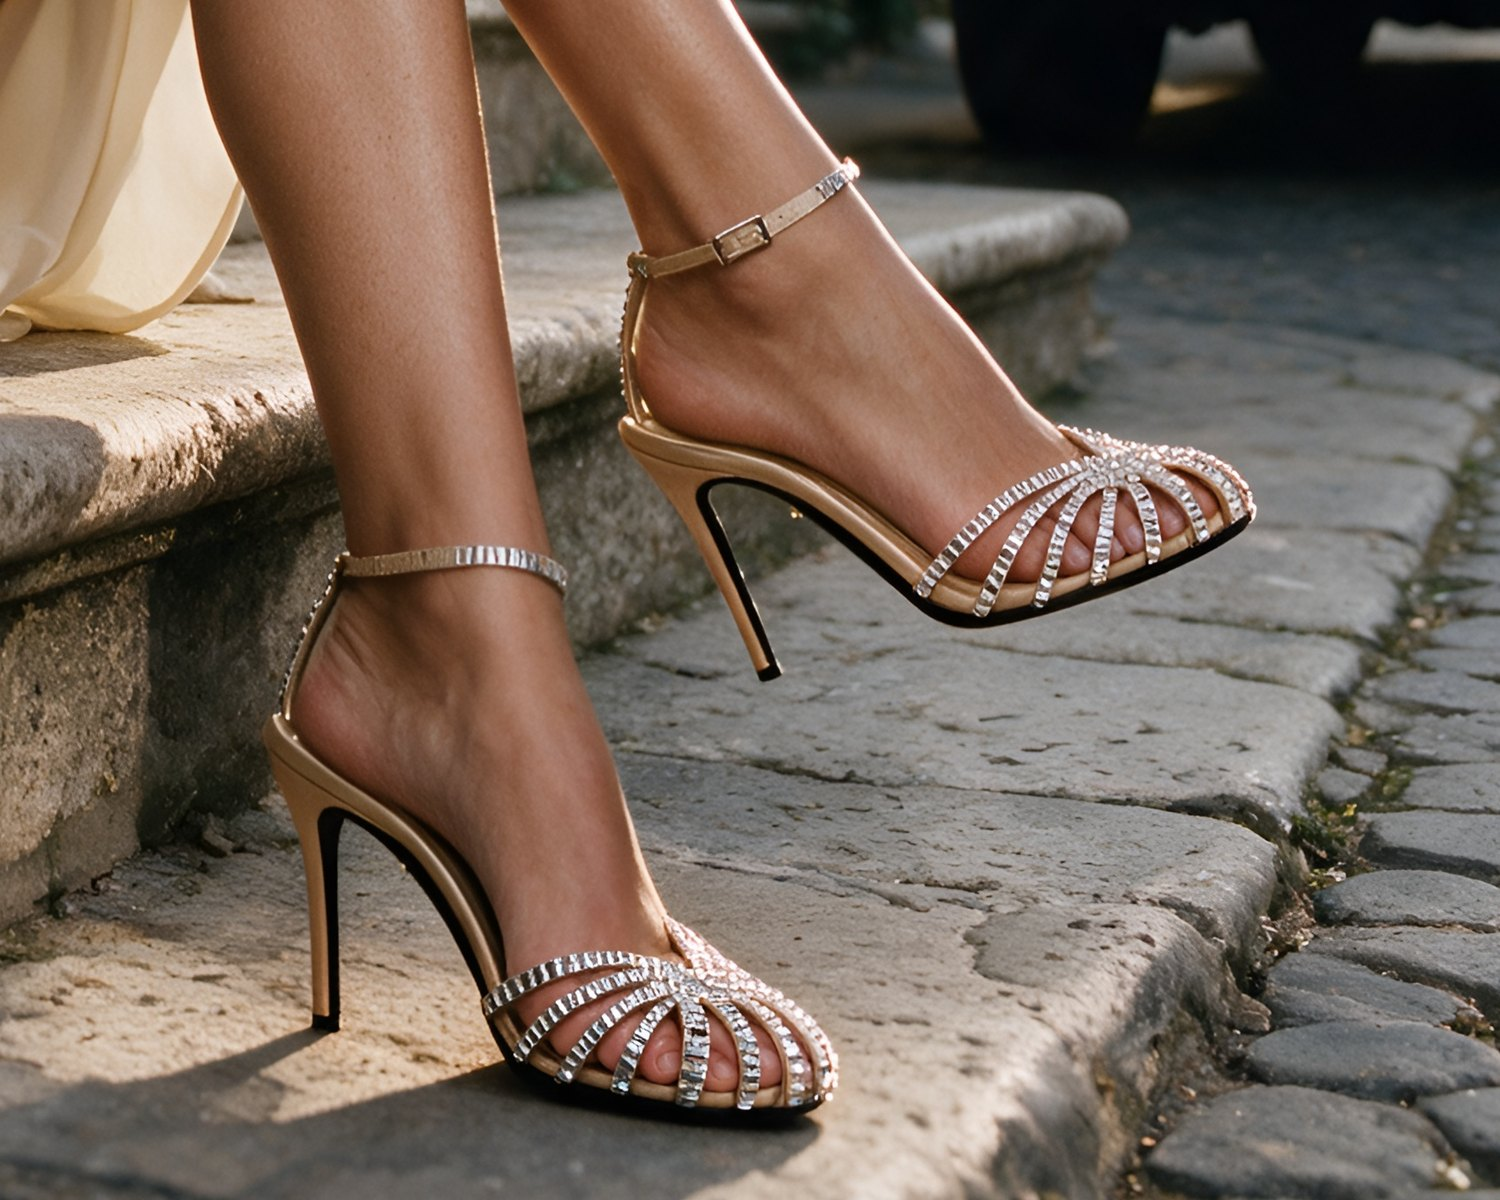
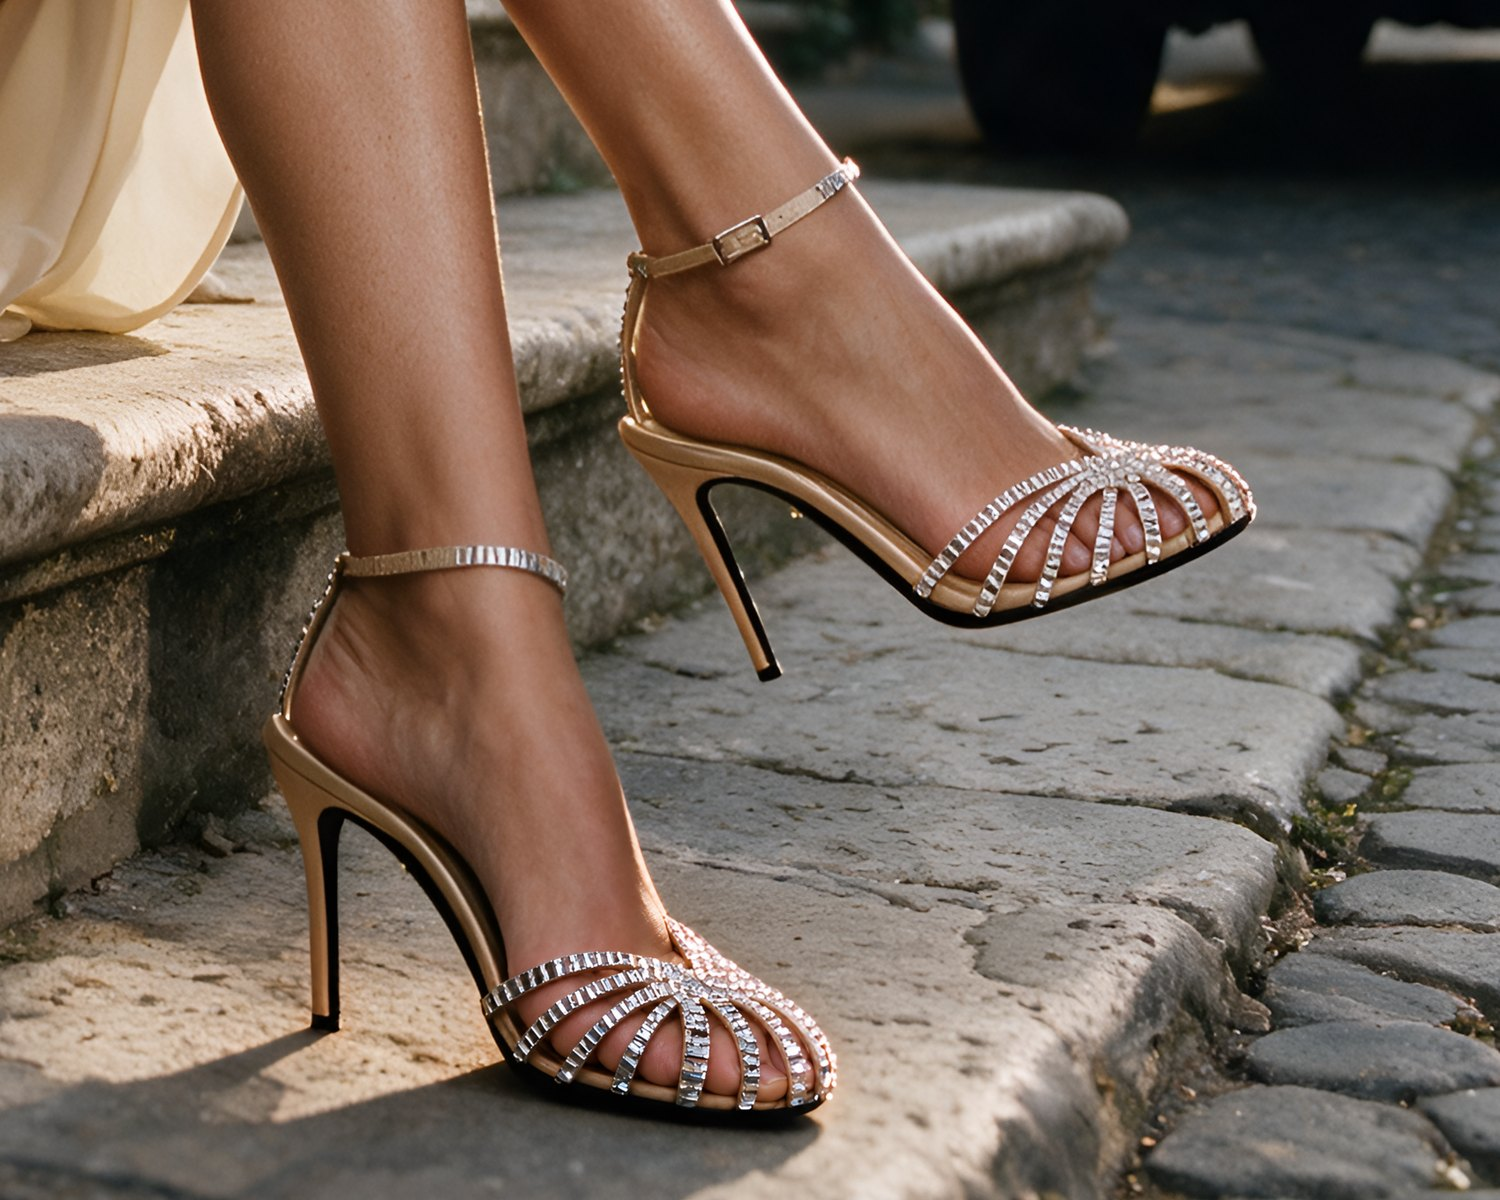
Alevì: dita del piede davanti corrette nello scatto sui gradini

Changed region(s): [[0.3373, 0.74, 0.552, 0.925]]

diff --git a/prova/alevi-ccf3d7/index.html b/prova/alevi-ccf3d7/index.html
@@ -78,7 +78,7 @@ footer a{text-decoration:none}
   <p class="lead">Penelope è difficile da rifare: la punta chiusa a gabbia, la raggiera di listini con una fila di cristalli baguette ciascuno, il piede che si vede tra i listini. Sono partito dalle vostre foto di Penelope Xtal 110 in satin skin e da foto della scarpa indossata, e ho controllato ogni immagine dettaglio per dettaglio: la punta chiusa con le dita dentro la gabbia, le baguette, il cinturino con il listino di cristalli e la fibbia rettangolare, il tacco da 110 in raso con il lato nero, la piccola perla nella montatura d'oro.</p>
   <div class="pair wide">
     <figure><div class="frame pack"><img src="packshot.jpg" alt="La vostra foto di profilo"></div><figcaption>La vostra foto</figcaption></figure>
-    <figure><div class="frame"><img src="dettaglio.jpg?v=11" alt="Penelope al piede sui gradini di pietra, la gabbia di baguette e il cinturino con la fibbia"></div><figcaption>In campagna</figcaption></figure>
+    <figure><div class="frame"><img src="dettaglio.jpg?v=12" alt="Penelope al piede sui gradini di pietra, la gabbia di baguette e il cinturino con la fibbia"></div><figcaption>In campagna</figcaption></figure>
   </div>
 </section>
 
@@ -89,7 +89,7 @@ footer a{text-decoration:none}
 </section>
 <section class="full"><img src="penelope-02.jpg?v=11" alt="Lei scende ridendo dalla portiera aperta dell'auto nera, le Penelope sul selciato"></section>
 <section class="full"><img src="penelope-03.jpg?v=11" alt="Sul selciato all'alba si volta e sorride, la giacca da sera che scivola, le Penelope al passo"></section>
-<section class="full"><img src="penelope-04.jpg?v=11" alt="Seduta sui gradini di un palazzo milanese, le Penelope in primo piano"></section>
+<section class="full"><img src="penelope-04.jpg?v=12" alt="Seduta sui gradini di un palazzo milanese, le Penelope in primo piano"></section>
 
 <section class="film">
   <div>
